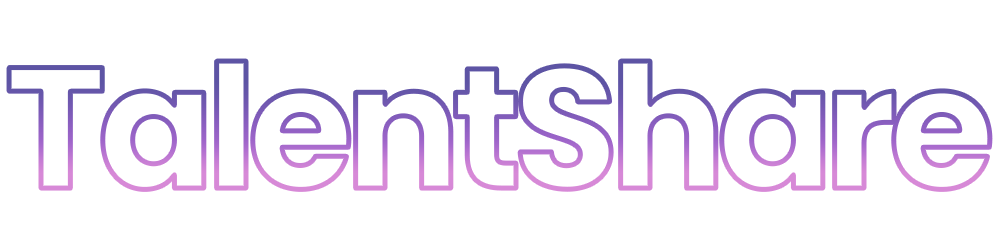
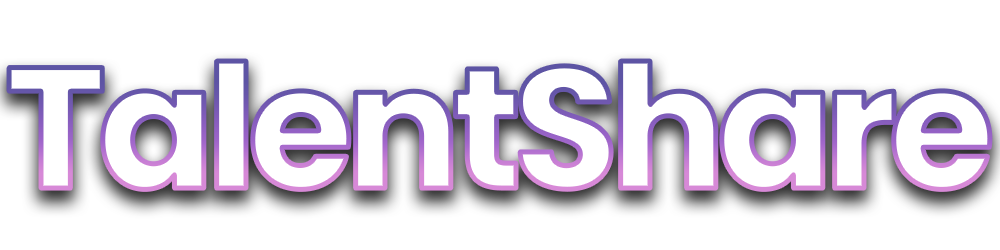
Update and refine splash styling

diff --git a/frontend/src/assets/session.css b/frontend/src/assets/session.css
@@ -4,7 +4,7 @@
     width: 400px;
     height: 800px;
     font-size: 20px;
-    box-shadow: 0px 1px 28px 0.5px dimgrey;
+    box-shadow: 0px 1px 28px 0.5px black;
     padding: 16px 16px 16px 16px;
     
 }
@@ -20,11 +20,10 @@
     margin-bottom: 20px;
 }
 .session-form-input {
-    display: flex;
-    flex-direction: column;
-    margin-top: 10px;
-    margin-bottom: 10px;
-   
+  display: flex;
+  flex-direction: column;
+  margin-top: 33px;
+  margin-bottom: 30px;
 }
 
 .name-input-fields{
@@ -49,22 +48,25 @@
 
 .session-form .form-prompt{
     box-sizing: border-box;
-    margin: 8px 10px 8px 0;
-    font-size: 14px;
+    margin: 8px 10px 8px 5px;
+    font-size: 22px;
     font-weight: 500;
     font-weight: bold;
     text-transform: uppercase;
     height: 20px;
+    color: white;
 }
 
 .session-form-input input{
-    box-sizing: border-box;
-    font-size: 16px;
-    border: 1px solid #a3a1b1;
-    padding: 5px;
-    margin-right: 10px;
-    outline: none;
-    height: 50px;
+  box-sizing: border-box;
+  font-size: 16px;
+  border: 1px solid #a3a1b1;
+  padding: 5px 0px 5px 14px;
+  margin-right: 10px;
+  outline: none;
+  height: 50px;
+  font-family: 'Poppins';
+  border-radius: 10px;
 }
 
 .session-form-input input:focus{
@@ -72,15 +74,16 @@
 }
 
 .session-errors{
-    color: red;
-    font-size: 12px;
-    margin-top: 5px;
-    margin-bottom: 5px;
+  color: red;
+  font-size: 12px;
+  margin-top: 12px;
+  margin-bottom: 5px;
+  margin-left: 5px;
 }
 
 .session-form button{
     border: none;
-    border-radius: 5px;
+    border-radius: 10px;
     outline: none;
     background-color: #5d5fa4;
     color: white;
@@ -88,11 +91,14 @@
     width: 110px;
     font-weight: bold;
     position: absolute;
-    right: 10px;
+    right: 40px;
+    top: -14px;
+    margin-bottom: 5px;
+    transition: 0.3s;
 }
 
 .session-form button:hover{
-    background-color: #2a3d66;
+    background-color: #787bd3;
 }
 
 .session-form button:active{
@@ -101,6 +107,9 @@
 
 .session-switch{
     font-size: 13px;
+    font-weight: 600;
+    color: white;
+    margin-left: 25px;
     
 }
 
@@ -109,4 +118,15 @@
     justify-content: space-between;
     box-sizing: border-box;
     position: relative;
+}
+
+.session-switch a {
+    text-decoration: none;
+    color: #787bd3;
+    transition: 0.3s;
+}
+
+.session-switch a:hover {
+    text-decoration: none;
+    color: #989bff;
 }

diff --git a/frontend/src/components/session/splash.jsx b/frontend/src/components/session/splash.jsx
@@ -4,6 +4,7 @@ import React from 'react';
 // import { AuthRoute, ProtectedRoute } from '../../util/route_util';
 import LoginFormContainer from '../session/login_form_container';
 import WhiteLogo from '../../assets/images/talentsharelight.png';
+import Tagline from '../../assets/images/tagline.png';
 import SplashBackground from '../../assets/images/splash-background.png';
 import '../../assets/splash.css'
 const Splash = () => {
@@ -11,6 +12,7 @@ const Splash = () => {
     <div className="splash-page">
       <div id="splash-design-container">
         <img id="splash-logo" src={WhiteLogo} alt="Splash Logo"/>
+        <img id="tagline" src={Tagline} alt="Tagline"/>
       </div>
       <LoginFormContainer id="login-form"/>
     </div>

diff --git a/frontend/src/assets/splash.css b/frontend/src/assets/splash.css
@@ -11,7 +11,7 @@
   z-index: 3;
   top: 100px;
   left: 11%;
-  margin: -8px 0px 0px -9px;
+  margin: -10px 0px 0px 17px;
 }
 
 .session-form {
@@ -20,8 +20,16 @@
   right: 16vw;
   top: 3vw;
   z-index: 5;
-  background: #F0F2F5;
   border-radius: 19px;
+  background: rgba(215,137,215, 0.5);
+  background: linear-gradient( 
+    1deg,
+    rgba(215,137,215,2.7) 9%,
+    rgba(157,101,201,0.4) 60%,
+    rgba(93,84,164,1.2) 79%,
+    rgba(42,61,102,0.7) 100%
+  );
+
 }
 
 div.splash-page {
@@ -30,4 +38,13 @@ div.splash-page {
   background-blend-mode: multiply;
   height: 800px;
   overflow: hidden;
+}
+
+#tagline {
+  width: 30%;
+  position: absolute;
+  z-index: 3;
+  top: 239px;
+  left: 19%;
+  margin: -10px 0px 0px 17px;
 }

diff --git a/frontend/src/components/session/login_form.jsx b/frontend/src/components/session/login_form.jsx
@@ -57,7 +57,6 @@ class LoginForm extends React.Component {
   render() {
     return (
       <div className="login-form-container session-form">
-        <h1>Login</h1>
         <form onSubmit={this.handleSubmit}>
           
           <div className="session-form-input">
@@ -82,7 +81,7 @@ class LoginForm extends React.Component {
 
           <div className="session-form-footer">
             <div className="session-switch">Need an account? <Link to="/signup">Sign Up!</Link></div>
-            <button>Submit</button>
+            <button>login</button>
           </div>  
           
         </form>
